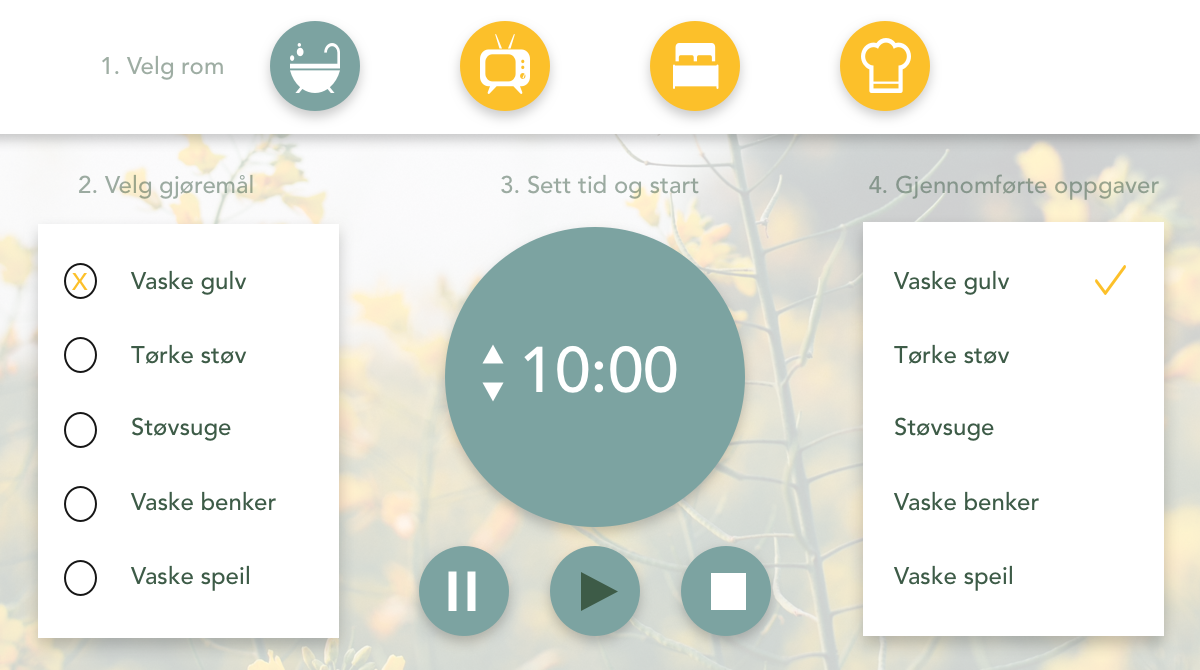
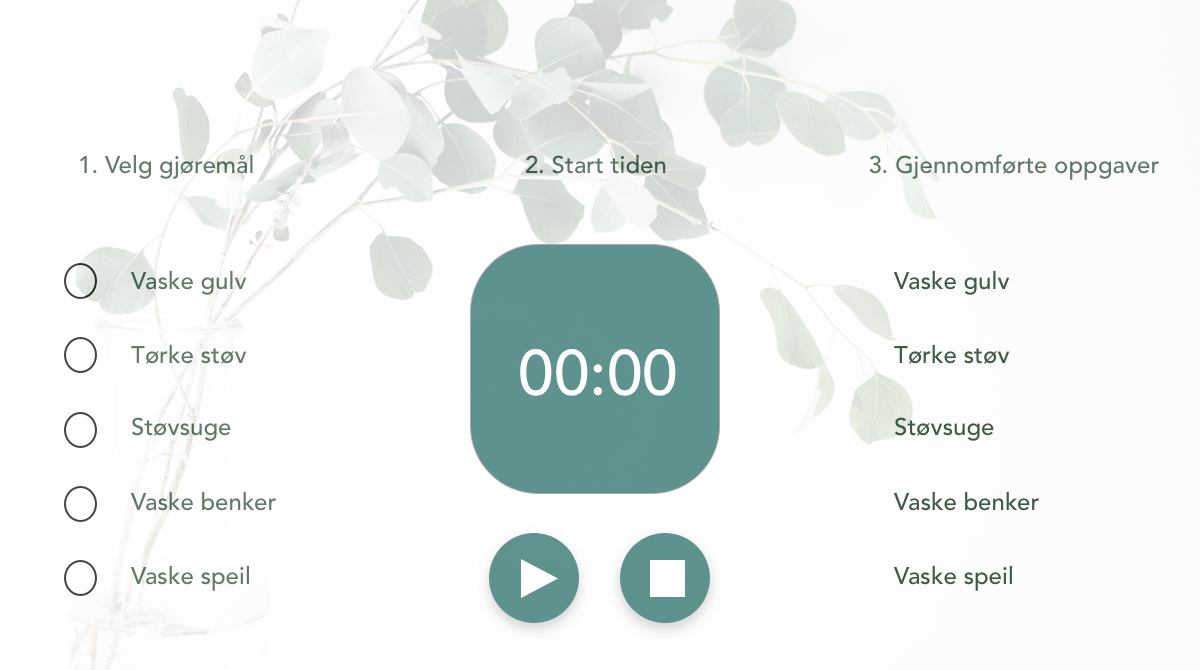
edit
new design and text

diff --git a/index.html b/index.html
@@ -27,9 +27,8 @@
         <div class="box b2">
             <p class="text-box2">RaskVask er en desktop applikasjon som gir motivasjon til å gjøre husvasken.<br><br>
                 <ol>
-                    <li>Velg rom</li>
                     <li>Velg en oppgave</li>
-                    <li>Sett egen tid og start</li>
+                    <li>Start tiden</li>
                     <li> Når tiden er ute vil valgt oppgave sjekkes av</li>
                 </ol></p>
         </div>
